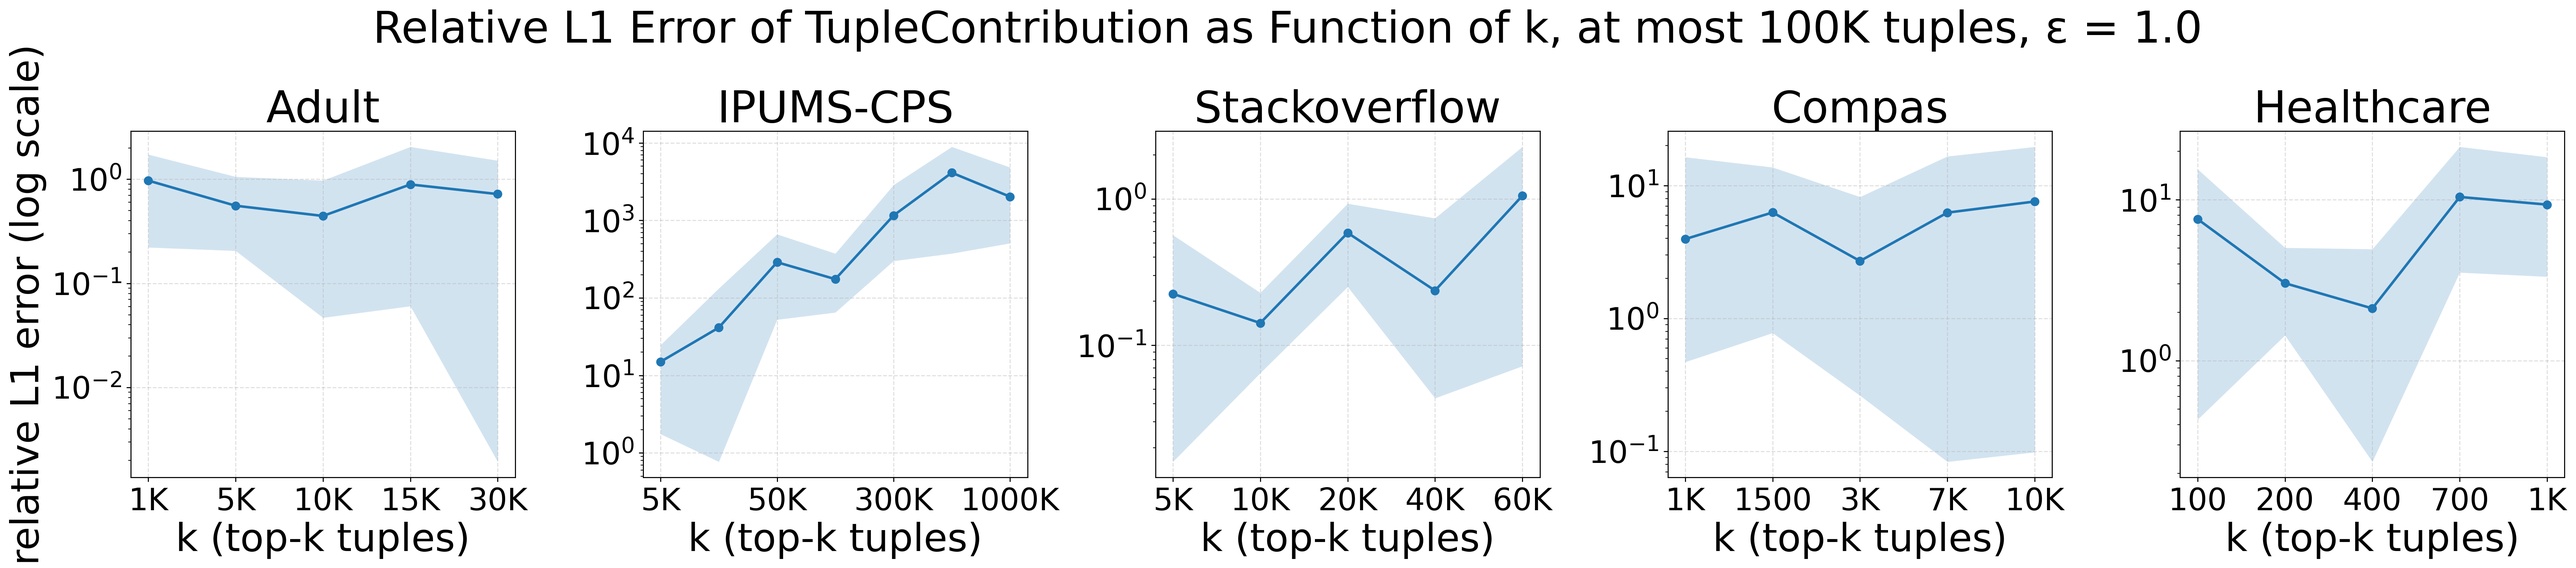
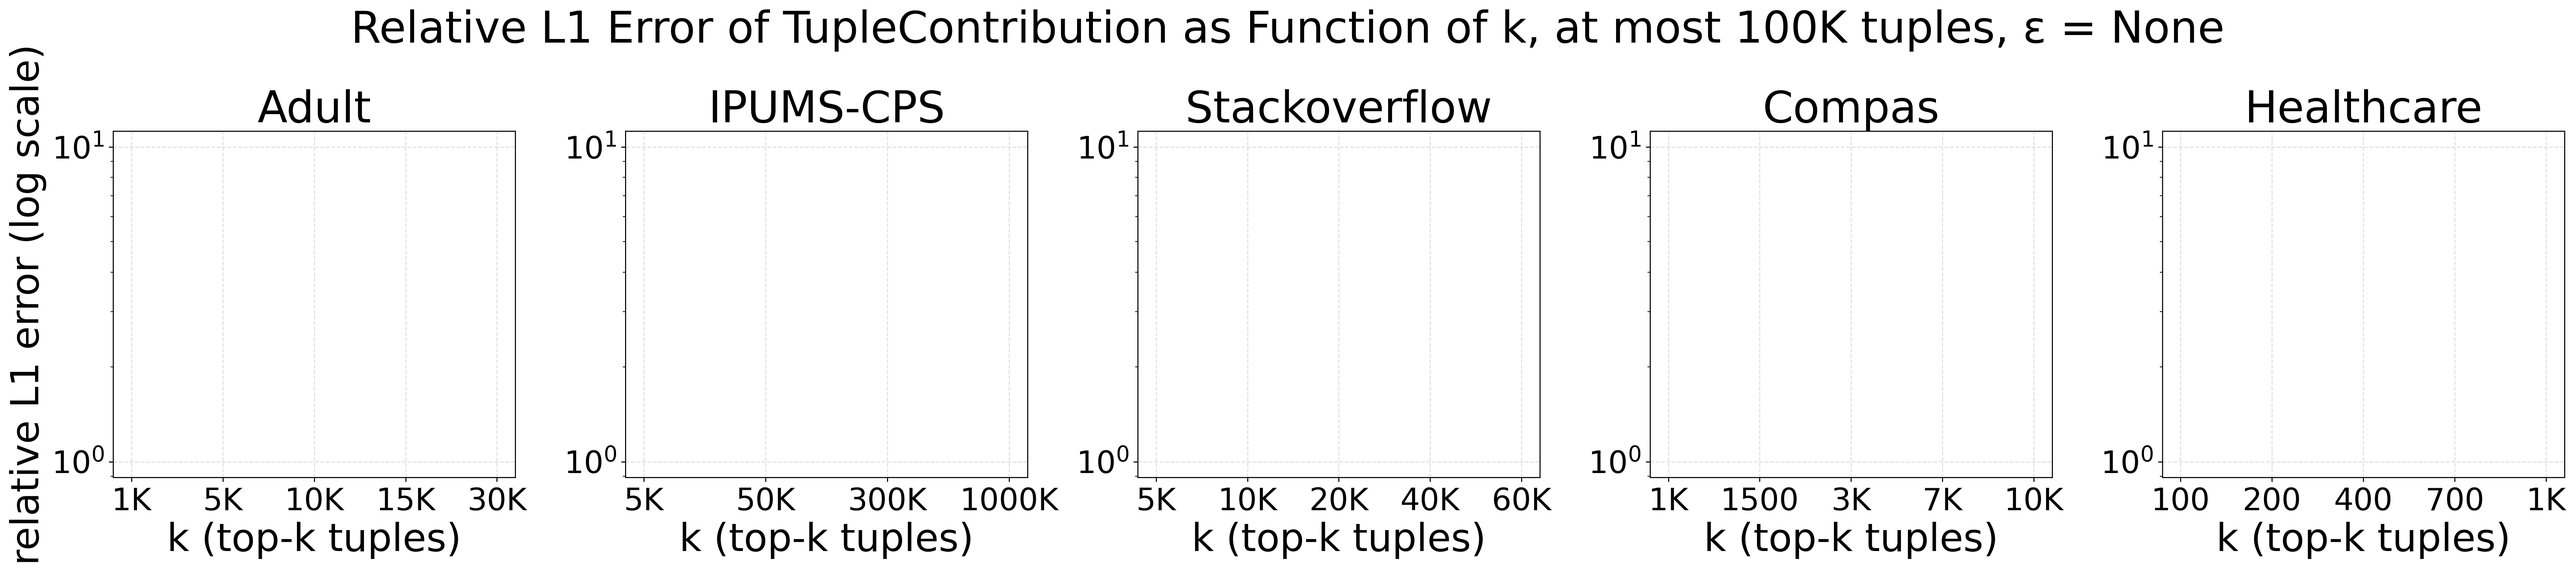
Redid some graphs

diff --git a/main.py b/main.py
@@ -1,7 +1,7 @@
 import time
 from collections import defaultdict
 from concurrent.futures import ThreadPoolExecutor
-from typing import Tuple, Dict
+from typing import Tuple, Dict, Optional
 
 import numpy as np
 import pandas as pd
@@ -960,7 +960,7 @@ def run_experiment_4(
 def run_experiment_5(
     num_tuples=100000,
     repetitions=5,
-    epsilon=1.0,
+    epsilon=None,
     outfile="plots/experiment5.png",
 ):
     """Plot TupleContribution runtime over `repetitions` per dataset while keeping #tuples constant
@@ -1118,7 +1118,7 @@ def run_experiment_5(
 def run_experiment_6(
     num_tuples=100000,
     repetitions=5,
-    epsilon=1.0,
+    epsilon=None,
     outfile="plots/experiment6.png",
 ):
     """Plot average relative L1 error of TupleContribution over `repetitions` per dataset,
@@ -1271,7 +1271,7 @@ def run_experiment_6(
 
 
 def run_experiment_7_unconditional(
-        epsilon: float = 1.0,
+        epsilon: Optional[float] = None,
         num_tuples: int = 100000,
         num_tuples_repair: int = 1000,
         repetitions: int = 5,
@@ -1484,8 +1484,7 @@ def run_experiment_7_unconditional(
                 lin = DPLinear(in_dim)
                 _train_dp_sgd(lin, train_loader)
                 yhat_lin_scaled = _predict(lin, X_test)
-                yhat_lin_real = _unscale(yhat_lin_scaled)
-                mae_lin = float(np.mean(np.abs(yhat_lin_real - y_real_test)))  # L1 vs REAL values
+                mae_lin = float(np.mean(np.abs(yhat_lin_scaled - y_test)))  # in [0,1]
 
                 dp_lin = _demographic_parity(
                     yhat_lin_scaled,
@@ -1610,7 +1609,7 @@ def run_experiment_7_unconditional(
 
 
 def run_experiment_7_conditional(
-        epsilon: float = 1.0,
+        epsilon: Optional[float] = None,
         num_tuples: int = 100000,
         num_tuples_repair: int = 1000,
         repetitions: int = 5,
@@ -1827,8 +1826,7 @@ def run_experiment_7_conditional(
                 lin = DPLinear(in_dim)
                 _train_dp_sgd(lin, train_loader)
                 yhat_lin_scaled = _predict(lin, X_test)
-                yhat_lin_real = _unscale(yhat_lin_scaled)
-                mae_lin = float(np.mean(np.abs(yhat_lin_real - y_real_test)))  # L1 vs REAL values
+                mae_lin = float(np.mean(np.abs(yhat_lin_scaled - y_test)))  # in [0,1]
                 csp_lin = _conditional_statistical_parity(
                     yhat_lin_scaled,
                     prot_test,
@@ -1958,8 +1956,8 @@ if __name__ == "__main__":
     # run_experiment_2()
     # run_experiment_3()
     # run_experiment_4()
-    # run_experiment_5()
-    # run_experiment_6()
+    run_experiment_5()
+    run_experiment_6()
     run_experiment_7_unconditional()
     run_experiment_7_conditional()
 
